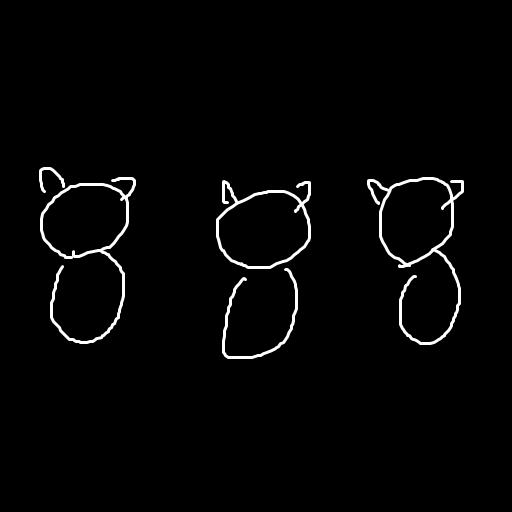
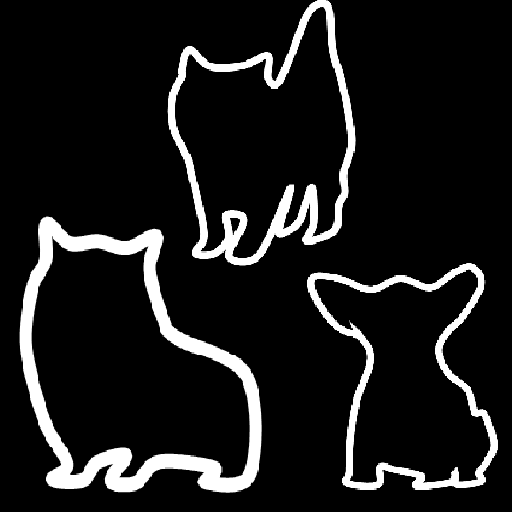
Update dog_cat_dog sketch and bbox

diff --git a/Mix-of-Show/dataset_convert.py b/Mix-of-Show/dataset_convert.py
@@ -28,9 +28,9 @@ all_region_prompts = {
 		("A <vase_1> <vase_2>", "[212,152,482,331]")
 		],
 	"2": [
-		("A <dog_1> <dog_2> near a forest.", "[133,8,437,147]"), 
-		("A <pet_cat1_1> <pet_cat1_2> near a forest.", "[168,185,449,334]"),
-		("A <dog6_1> <dog6_2> near a forest.","[168,347,454,490]")
+		("A <dog_1> <dog_2> near a forest.", "[213,6,493,276]"), 
+		("A <pet_cat1_1> <pet_cat1_2> near a forest.", "[0,161,257,362]"),
+		("A <dog6_1> <dog6_2> near a forest.","[263,298,512,512]")
 		],
 	"3": [
 		("A <cat2_1> <cat2_2> in a <watercolor_1> <watercolor_2> style.","[107,96,512,406]"), 
